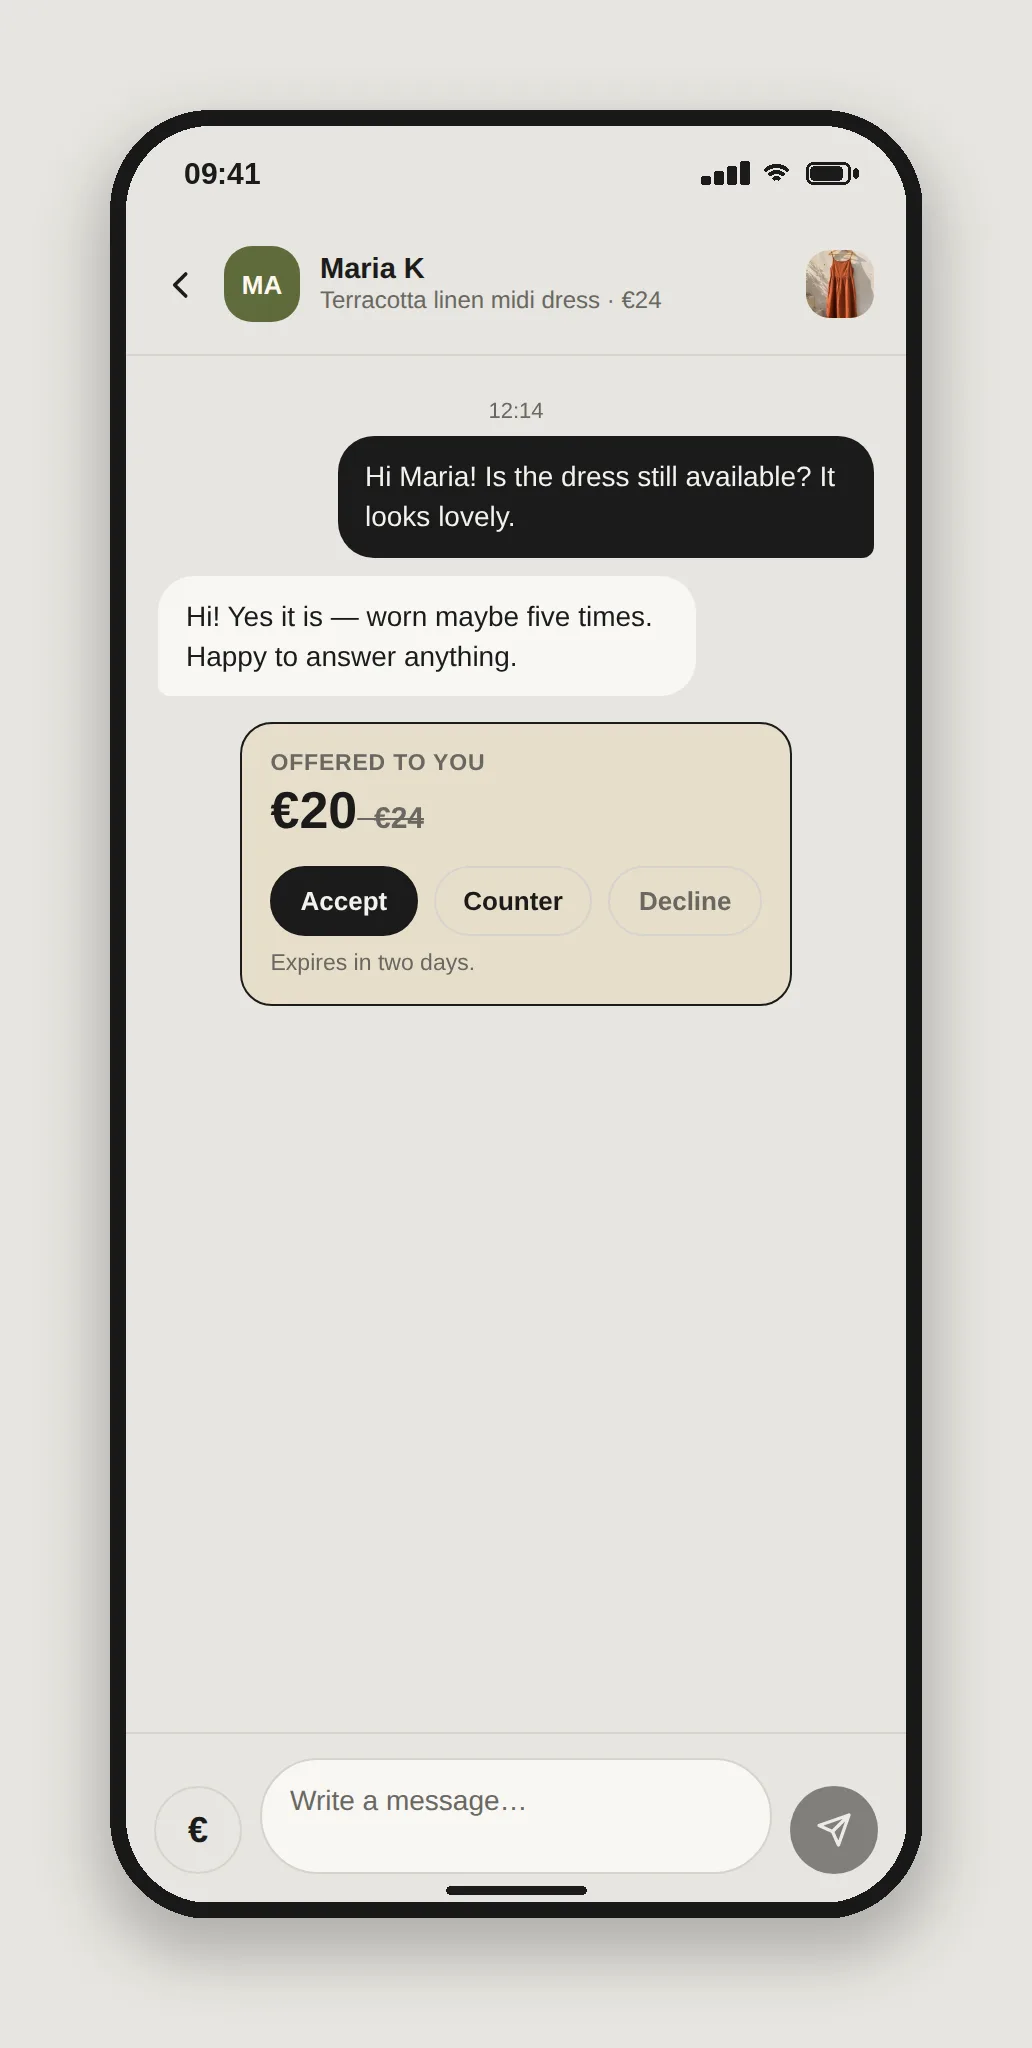
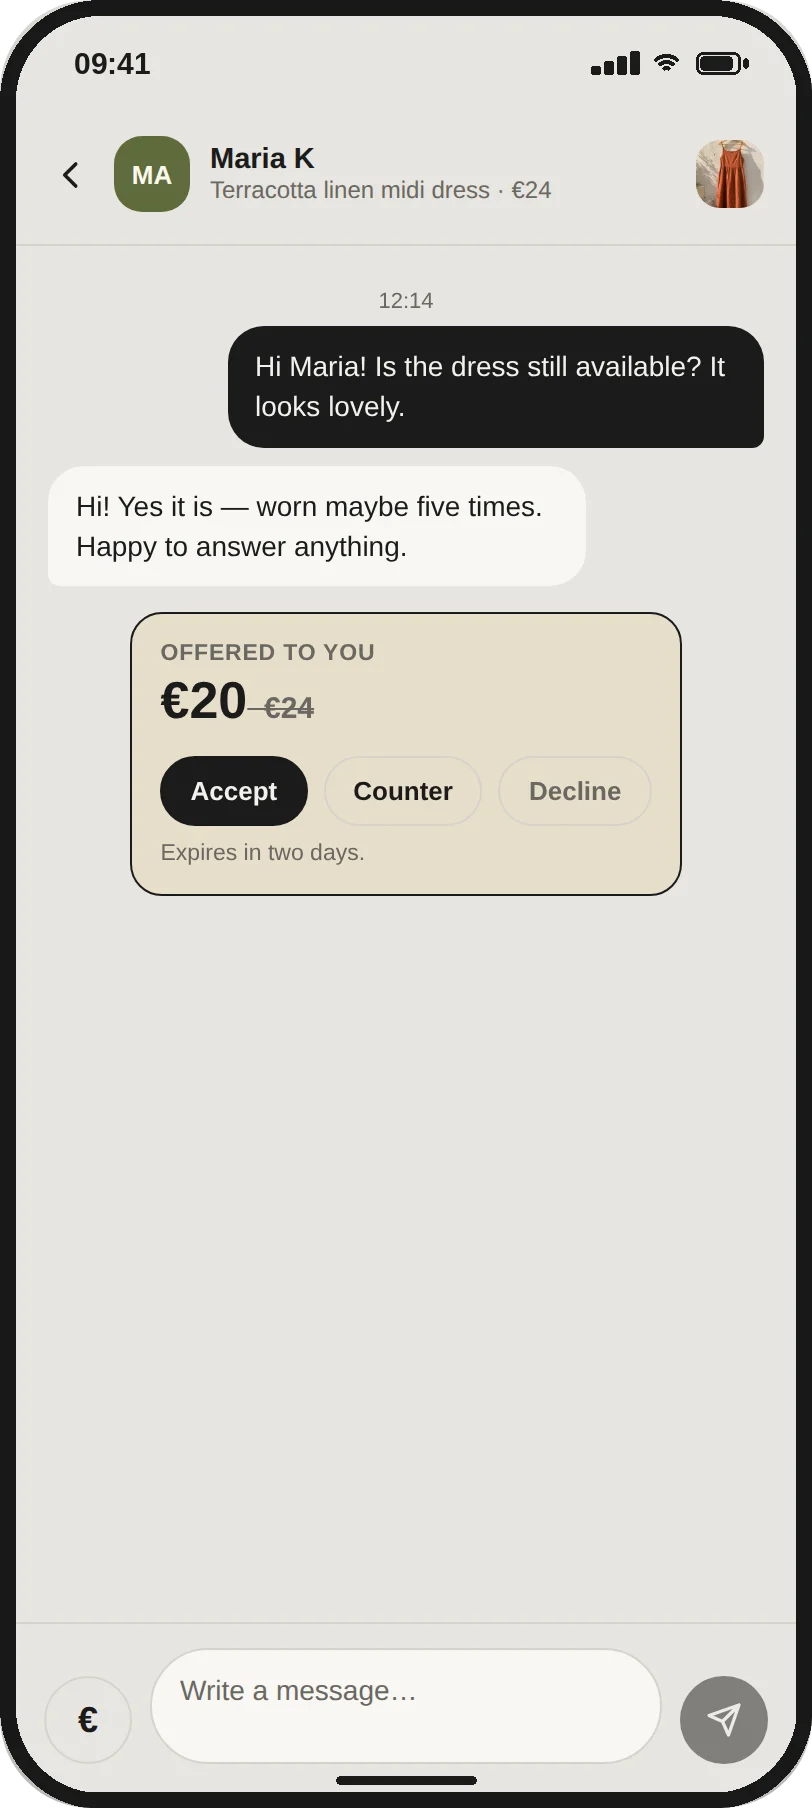
Cut Plouma screens out of their backdrop
Each export is re-cropped from the original PNG to the device itself —
bounding box of the bezel, clipped to the 91px corner radius, everything
outside transparent — so only the phone shows and it sits directly on the
page in either theme. Frame ratio follows the new crop (812:1808).

Claude-Session: https://claude.ai/code/session_01F9PSTTuwU3qSvsBwPYpVgm

Changed region(s): [[0.0, 0.0, 1.0, 1.0], [0.6466, 0.0929, 0.6773, 0.1239], [0.1847, 0.8673, 0.2155, 0.8982]]

diff --git a/styles.css b/styles.css
@@ -463,7 +463,7 @@ h2 {
 
 .gallery.phone .g-hero {
   height: auto;
-  aspect-ratio: 1032 / 2048;
+  aspect-ratio: 812 / 1808;
   max-width: 300px;
   margin: 0 auto;
   border-radius: 14px;
@@ -518,7 +518,7 @@ h2 {
 
 /* No-JS fallback grid keeps the same portrait proportions. */
 .proj-shots[data-shape="phone"] .shot {
-  aspect-ratio: 1032 / 2048;
+  aspect-ratio: 812 / 1808;
 }
 
 /* ── Lightbox ────────────────────────────────────────────── */
